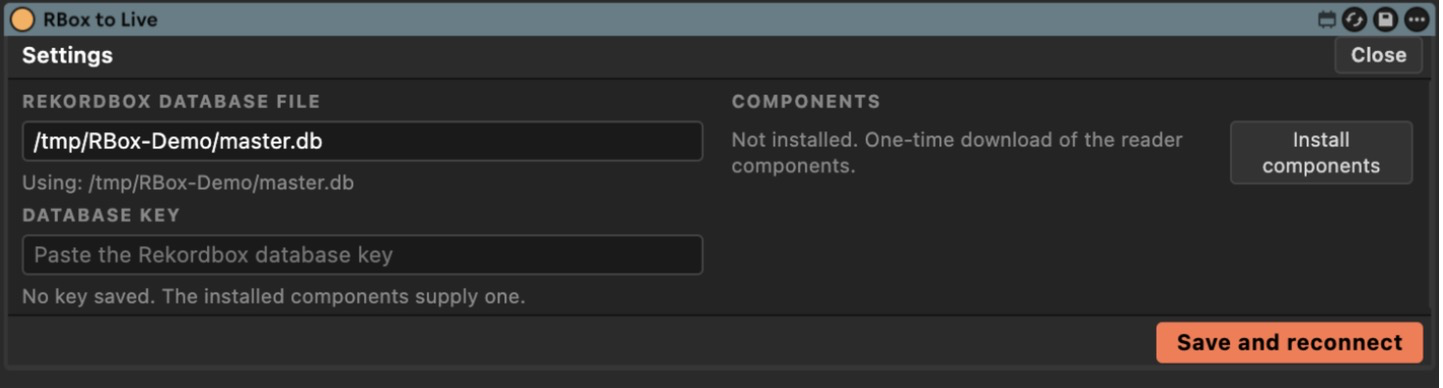
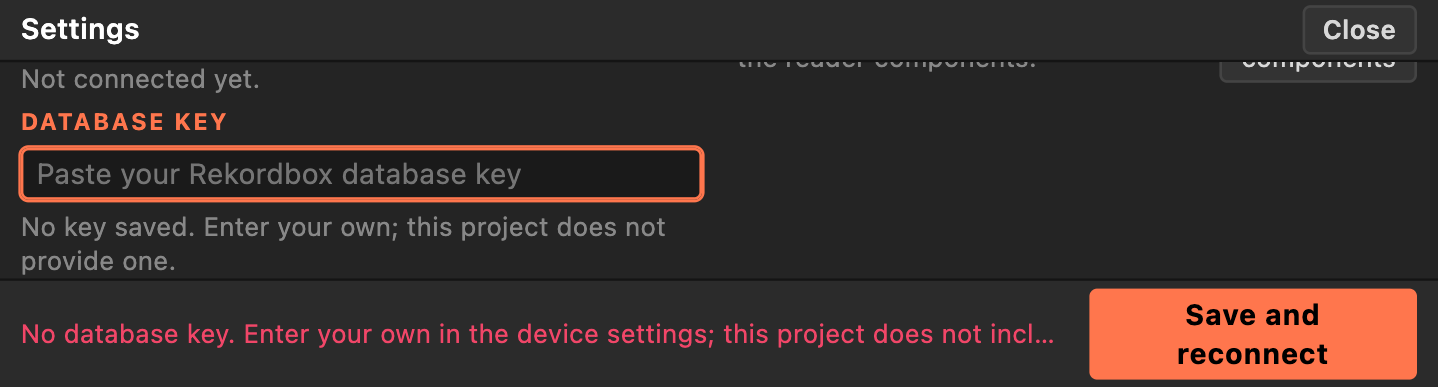
Show the key field when it is missing and refresh the Settings screenshot
At the device's compact size the expanded key section was cut off, so the key field sat below the fold when the key was
missing. The panel now scrolls the key section into view and focuses the field, the footer message is one line, and the key
text is shorter. The README Settings screenshot now shows the current panel instead of the old wording.

diff --git a/src/rbox-to-live.html b/src/rbox-to-live.html
@@ -410,6 +410,7 @@
       #sec-key { grid-column: 1; grid-row: 2; }
       #sec-components { grid-column: 2; grid-row: 1 / span 2; }
       .field { padding: 2px 5px; }
+      .panel .message { white-space: nowrap; overflow: hidden; text-overflow: ellipsis; }
     }
   </style>
 </head>
@@ -493,7 +494,6 @@
         </section>
         <section id="sec-key">
           <h3>Database key</h3>
-          <div class="hint">Rekordbox encrypts its library. This project does not include or look up the key: you enter your own key here.</div>
           <input id="set-key" class="field" type="password" placeholder="Paste your Rekordbox database key" spellcheck="false" autocomplete="off">
           <div class="row"><span id="set-keystate" class="hint" style="flex:1 1 auto;"></span><button id="set-keyclear" class="btn-subtle" type="button">Remove saved key</button></div>
         </section>
@@ -908,6 +908,7 @@
 
     function setMessage(text, kind = '') {
       $('set-message').textContent = text || '';
+      $('set-message').title = text || '';
       $('set-message').className = `message ${kind}`;
     }
 
@@ -918,7 +919,7 @@
       $('set-dbdetected').title = s.detectedDbPath || '';
       $('set-keystate').textContent = s.hasKey
         ? 'A key is saved. Paste another to replace it.'
-        : 'No key saved. The device cannot open the library until you enter your own key.';
+        : 'No key saved. Enter your own; this project does not provide one.';
       $('set-keyclear').style.display = s.hasKey ? '' : 'none';
       $('set-key').value = '';
       $('set-components').textContent = s.components.privateEnvironment
@@ -933,6 +934,11 @@
       for (const id of ['sec-db', 'sec-key', 'sec-components']) $(id).classList.toggle('attention', id === focusSection);
       setMessage(message || '', message ? 'bad' : '');
       try { await refreshSettings(); } catch (err) { setMessage('Could not read the settings: ' + err.message, 'bad'); }
+      // Bring the section that needs attention into view; the compact panel scrolls.
+      if (focusSection) {
+        $(focusSection).scrollIntoView({ block: 'nearest' });
+        if (focusSection === 'sec-key') $('set-key').focus();
+      }
     }
 
     function closeSettings() { $('settings').classList.remove('open'); }

diff --git a/src/rbox-to-live-db.py b/src/rbox-to-live-db.py
@@ -129,8 +129,7 @@ def resolve_key(manual: str | None) -> str:
         return str(manual).strip()
     raise ReaderError(
         "key-missing",
-        "No database key. Enter your own Rekordbox database key in the device settings. "
-        "This project does not include one and cannot help you find it.",
+        "No database key. Enter your own in the device settings; this project does not include one.",
     )
 
 

diff --git a/README.md b/README.md
@@ -87,7 +87,7 @@ Press **Settings** in the device.
 - **Database key.** Paste your own Rekordbox database key here (see [The database key](#the-database-key)). It is saved in a file only your user can read (`settings.json`, mode 600) and is never shown again; **Remove saved key** deletes it. The device has no key of its own and works without one only in the sense that it tells you it is missing.
 - **Components.** Shows whether the private environment is installed and lets you install or reinstall it. It holds the SQLCipher driver that opens the database, and nothing else.
 
-![The Settings panel](docs/images/settings.png)
+![The Settings panel when no key is saved yet](docs/images/settings.png)
 
 ## Privacy and safety
 
